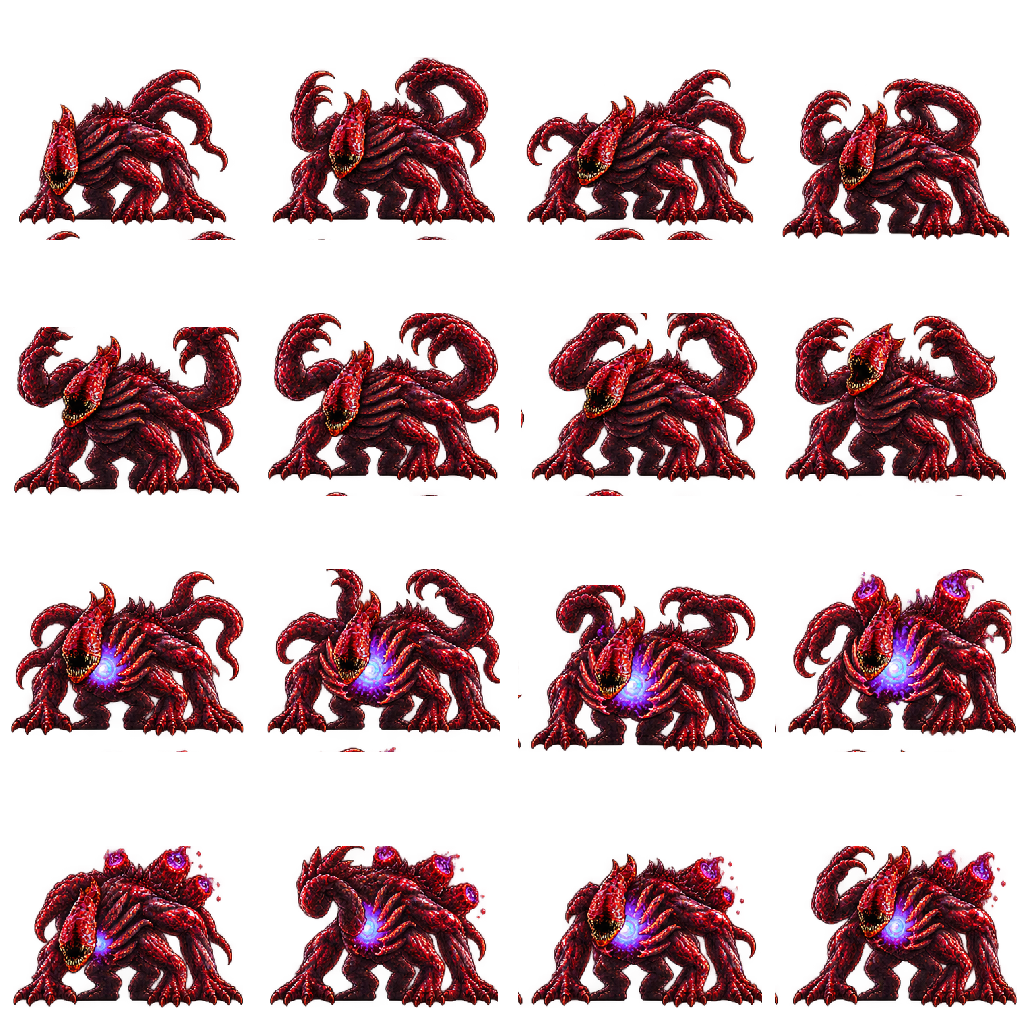
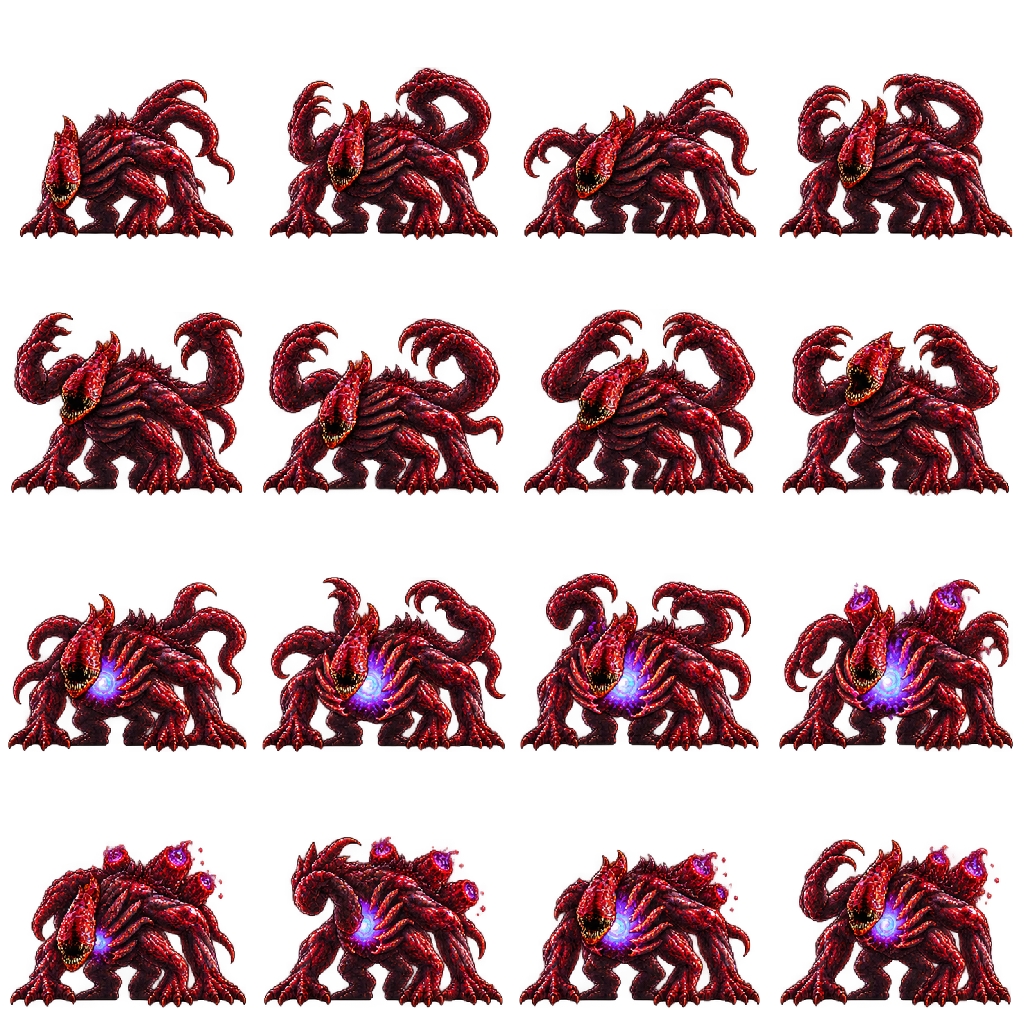
Fix Mind Flayer frame gutters leaking neighboring tentacles

diff --git a/src/game/bossAssets.ts b/src/game/bossAssets.ts
@@ -2,7 +2,7 @@ import Phaser from 'phaser';
 export const BOSS_ASSETS=['mf-phases','mf-arm','vecna-stances','boss-devices','vecna-airwave','boss-cores'] as const;
 export function preloadBossAssets(scene:Phaser.Scene,base:string){
  for(const key of BOSS_ASSETS)scene.load.image(key,base+key+'.png');
- for(const key of ['mf-living','vecna-living'])scene.load.spritesheet(key,base+key+'.png',{frameWidth:256,frameHeight:256});
+ for(const key of ['mf-living','vecna-living'])scene.load.spritesheet(key,base+key+'.png'+(key==='mf-living'?'?v=2':''),{frameWidth:256,frameHeight:256});
 }
 /** Measured frame boxes preserve alpha and ground baselines. */
 export function registerBossAssets(scene:Phaser.Scene){

diff --git a/src/game/BossDirector.ts b/src/game/BossDirector.ts
@@ -97,7 +97,7 @@ export class BossDirector {
   if(c.kind==='mindflayer'){
    const open=c.active&&mfCanTakeDamage(c.state,now);
    const row=!c.active?0:open?(Math.floor(clock/1100)%2?3:2):c.state.mode==='telegraph'?1:0;
-   c.stance.setTexture('mf-living',loopFrame(clock,row,row===1?110:155)).setOrigin(.5,240/256).setScale((136/171)*(1+breath*.009),(136/171)*(1-breath*.012));
+   c.stance.setTexture('mf-living',loopFrame(clock,row,row===1?110:155)).setOrigin(.5,240/256).setScale((136/161)*(1+breath*.009),(136/161)*(1-breath*.012));
    // The rooted arm sways without shifting its target node or ground contact.
    c.arm.setDisplaySize(124*(1+Math.sin(clock*.009)*.018),136);
   }else{

diff --git a/scripts/prepare-living-assets.py b/scripts/prepare-living-assets.py
@@ -4,13 +4,22 @@ from pathlib import Path
 import json,sys
 root=Path(__file__).resolve().parents[1]
 source=Path(sys.argv[1])
+# The generated MF rows have uneven gutters. Equal quarters include the next
+# row's tentacle tips; these measured alpha-component bounds isolate each body.
+MF_BOXES=[
+ (16,19,326,251),(386,1,717,251),(734,18,1072,251),(1101,10,1439,251),
+ (16,258,354,523),(381,266,729,523),(740,253,1075,523),(1111,274,1439,523),
+ (10,545,355,790),(378,537,730,789),(743,533,1088,791),(1106,542,1444,791),
+ (8,811,349,1054),(386,806,731,1054),(744,825,1091,1054),(1112,810,1445,1054),
+]
 specs=[('mf-living','exec-0bb6ed36-93e8-42d7-89c2-f6a3d10a6655.png',4,256,256,240),('vecna-living','exec-6d4a181b-23f7-423a-a69f-81d36861bf7a.png',4,256,256,240),('husk-jump','exec-bcb2844e-c06c-43aa-83f1-bf33ff4da326.png',1,128,112,104),('crawler-rush','exec-5b995278-0f38-4f2e-a8ee-84435d9192a0.png',1,128,112,104)]
 metadata={}
 for name,file,rows,cw,ch,baseline in specs:
  im=Image.open(source/file).convert('RGBA');frames=[]
  for row in range(rows):
   for col in range(4):
-   tile=im.crop((round(col*im.width/4),round(row*im.height/rows),round((col+1)*im.width/4),round((row+1)*im.height/rows)))
+   cell=MF_BOXES[row*4+col] if name=='mf-living' else (round(col*im.width/4),round(row*im.height/rows),round((col+1)*im.width/4),round((row+1)*im.height/rows))
+   tile=im.crop(cell)
    # Ignore near-invisible fringes for stable bounds, retain source alpha inside.
    box=tile.getchannel('A').point(lambda a:255 if a>35 else 0).getbbox()
    assert box, (name,row,col)

diff --git a/docs/living-enemies.md b/docs/living-enemies.md
@@ -4,6 +4,8 @@ Forty newly generated transparent frames extend the existing enemy identities. `
 
 Boss animation uses the gameplay clock, including inactive encounters. Idle, anticipation, psychic channel, casting, leap and exposed states use fitted frame loops plus slight breathing. Vecna retains the authored exposed-chest pose to keep its tactical core aligned; its breathing and core pulse continue. Animation never changes physics body size. Game pause freezes animation.
 
+Mind Flayer extraction uses sixteen individually measured source rectangles, rather than equal-height rows: the generated source has uneven gutters and tentacle tips cross the nominal row boundaries. The corrected atlas excludes all neighboring sprites, preserves the 240px foot baseline and fits the 161px reference body to 136 world pixels. Its loader URL is versioned to invalidate the previous cached image.
+
 Zombie husks crouch for 280ms, jump once from grounded contact and commit forward during flight. Black crawlers telegraph for 300ms, rush for 390ms then recover for 320ms. Both require a visible approaching hero within 260px and 90px vertical distance, and have a 2400ms cooldown. Rush direction is locked at anticipation, with patrol boundaries stopping forward movement. Existing contact damage and stomp remain in effect.
 
 A planted, uncut Mind Flayer hand damages overlapping heroes for one heart, including a powered-up hero. Existing 1800ms immunity prevents repeated contact damage. Telegraphs and severed remnants are harmless. The initial heavy ground-slam impact and emitted waves retain their existing two-heart damage.
